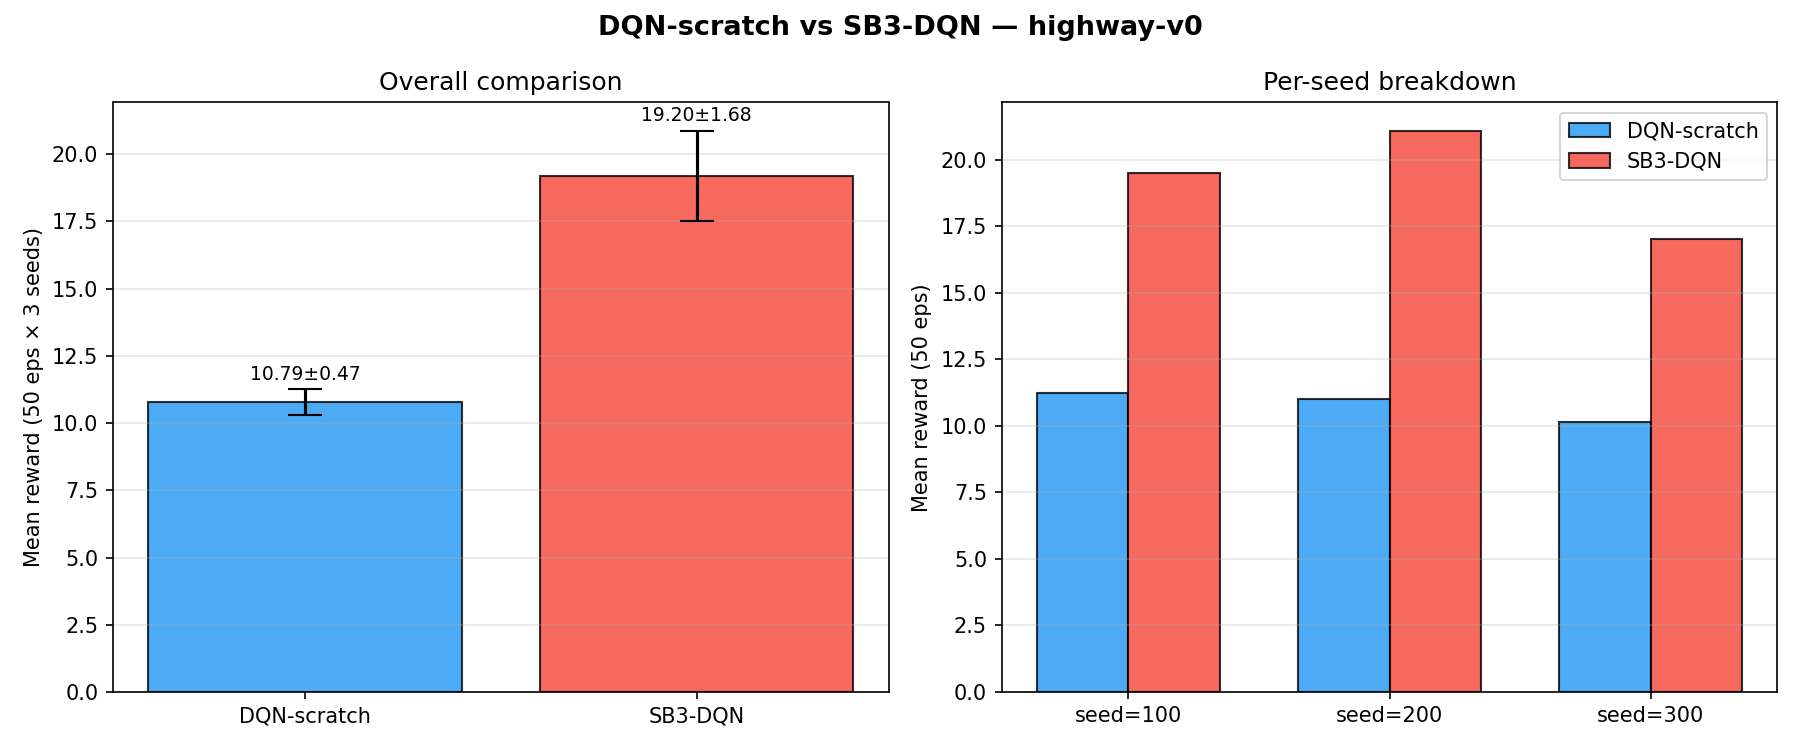
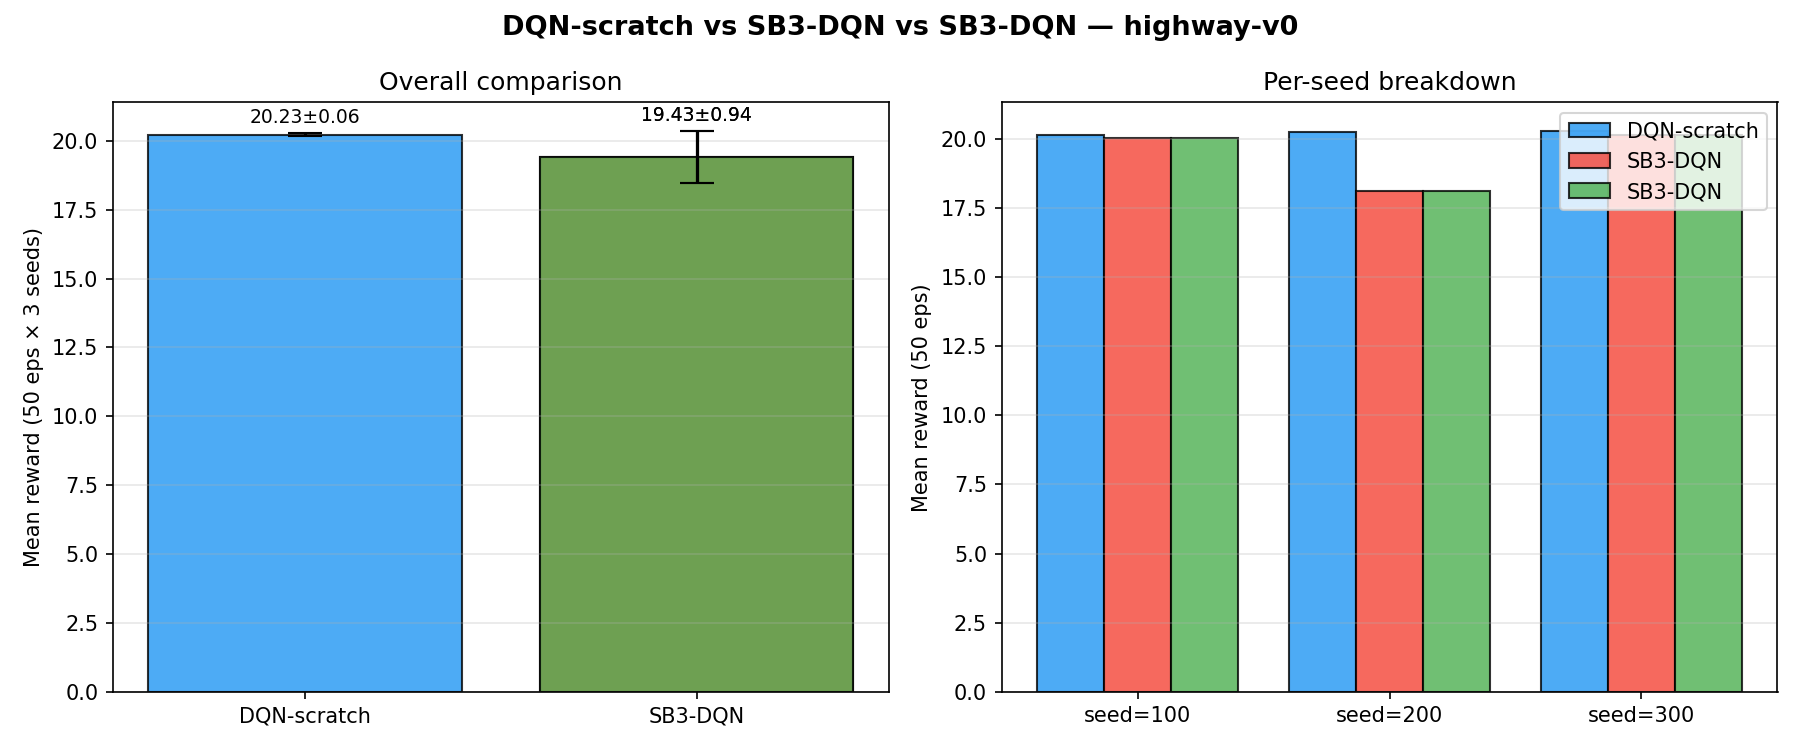
50000 steps PPO

diff --git a/plot_results.py b/plot_results.py
@@ -9,6 +9,7 @@ Usage:
     python plot_results.py
     python plot_results.py --dqn-csv results/dqn_scratch/metrics.csv \
                            --sb3-csv results/sb3_dqn/metrics.csv \
+                           --ppo-csv results/sb3_ppo/metrics.csv \
                            --comparison-json results/comparison_multiseed.json
 """
 
@@ -28,11 +29,13 @@ def smooth(values, window: int = 20):
     return np.convolve(values, kernel, mode="valid")
 
 
+COLORS = ["#2196F3", "#F44336", "#4CAF50"]
+
+
 def plot_training_curves(paths: list, output: Path) -> None:
     fig, ax = plt.subplots(figsize=(9, 5))
 
-    colors = ["#2196F3", "#F44336"]
-    for (csv_path, label), color in zip(paths, colors):
+    for (csv_path, label), color in zip(paths, COLORS):
         p = Path(csv_path)
         if not p.exists():
             print(f"  [skip] {csv_path} not found")
@@ -82,8 +85,9 @@ def plot_comparison_bar(comparison_json: Path, output: Path) -> None:
 
     fig, axes = plt.subplots(1, 2, figsize=(12, 5))
 
+    colors = COLORS[: len(models)]
+
     # --- Bar chart overall ---
-    colors = ["#2196F3", "#F44336"]
     bars = axes[0].bar(models, means, yerr=stds, capsize=8, color=colors, alpha=0.8, edgecolor="black")
     axes[0].set_ylabel("Mean reward (50 eps × 3 seeds)")
     axes[0].set_title("Overall comparison")
@@ -98,17 +102,19 @@ def plot_comparison_bar(comparison_json: Path, output: Path) -> None:
 
     # --- Per-seed grouped bar ---
     x = np.arange(len(seeds))
-    width = 0.35
+    n_models = len(models)
+    width = 0.8 / n_models
     for i, (model, color) in enumerate(zip(models, colors)):
-        axes[1].bar(x + i * width, seed_means[model], width, label=model, color=color, alpha=0.8, edgecolor="black")
-    axes[1].set_xticks(x + width / 2)
+        offset = (i - n_models / 2 + 0.5) * width
+        axes[1].bar(x + offset, seed_means[model], width, label=model, color=color, alpha=0.8, edgecolor="black")
+    axes[1].set_xticks(x)
     axes[1].set_xticklabels([f"seed={s}" for s in seeds])
     axes[1].set_ylabel("Mean reward (50 eps)")
     axes[1].set_title("Per-seed breakdown")
     axes[1].legend()
     axes[1].grid(axis="y", alpha=0.3)
 
-    fig.suptitle("DQN-scratch vs SB3-DQN — highway-v0", fontsize=13, fontweight="bold")
+    fig.suptitle(" vs ".join(models) + " — highway-v0", fontsize=13, fontweight="bold")
     fig.tight_layout()
     output.parent.mkdir(parents=True, exist_ok=True)
     fig.savefig(output, dpi=150)
@@ -120,6 +126,7 @@ def parse_args() -> argparse.Namespace:
     parser = argparse.ArgumentParser()
     parser.add_argument("--dqn-csv", type=str, default="results/dqn_scratch/metrics.csv")
     parser.add_argument("--sb3-csv", type=str, default="results/sb3_dqn/metrics.csv")
+    parser.add_argument("--ppo-csv", type=str, default="", help="CSV de training SB3 PPO (optionnel)")
     parser.add_argument("--comparison-json", type=str, default="results/comparison_multiseed.json")
     parser.add_argument("--output-dir", type=str, default="results/figures")
     return parser.parse_args()
@@ -129,14 +136,15 @@ if __name__ == "__main__":
     args = parse_args()
     out_dir = Path(args.output_dir)
 
+    curves = [
+        (args.dqn_csv, "DQN-scratch"),
+        (args.sb3_csv, "SB3-DQN"),
+    ]
+    if args.ppo_csv:
+        curves.append((args.ppo_csv, "SB3-PPO"))
+
     print("Generating training curves...")
-    plot_training_curves(
-        [
-            (args.dqn_csv, "DQN-scratch"),
-            (args.sb3_csv, "SB3-DQN"),
-        ],
-        out_dir / "training_curves.png",
-    )
+    plot_training_curves(curves, out_dir / "training_curves.png")
 
     print("Generating comparison bar chart...")
     plot_comparison_bar(Path(args.comparison_json), out_dir / "comparison_bar.png")

diff --git a/evaluate_multiseed.py b/evaluate_multiseed.py
@@ -1,12 +1,14 @@
 """
-Evaluate both the from-scratch DQN and the SB3 DQN across multiple seeds.
+Evaluate DQN-scratch, SB3 DQN, and SB3 PPO across multiple seeds.
 
 Outputs a JSON comparison table and prints a summary to stdout.
+PPO is optional : omit --ppo-model pour comparer seulement DQN-scratch et SB3-DQN.
 
 Usage:
     python evaluate_multiseed.py \
         --dqn-checkpoint results/dqn_scratch/checkpoints/best_model.pt \
         --sb3-model results/sb3_dqn/model.zip \
+        --ppo-model results/sb3_ppo/model.zip \
         --seeds 100 200 300 \
         --episodes 50 \
         --output-json results/comparison_multiseed.json
@@ -106,13 +108,26 @@ def evaluate_dqn_scratch(checkpoint_path: str, seeds: List[int], episodes: int, 
     }
 
 
+def _load_sb3_autodetect(model_path: str):
+    """Charge un modèle SB3 en détectant automatiquement l'algo depuis le zip."""
+    import zipfile
+    from stable_baselines3 import PPO, DQN
+
+    with zipfile.ZipFile(model_path) as zf:
+        raw = zf.read("data")
+
+    if b"PPOPolicy" in raw or b"ActorCriticPolicy" in raw:
+        return PPO.load(model_path), "SB3-PPO"
+    else:
+        return DQN.load(model_path), "SB3-DQN"
+
+
 def evaluate_sb3(model_path: str, seeds: List[int], episodes: int) -> Dict:
-    from stable_baselines3 import DQN as SB3DQN
+    model, label = _load_sb3_autodetect(model_path)
 
     per_seed: List[Dict] = []
     for seed in seeds:
         env = make_env(seed)
-        model = SB3DQN.load(model_path, env=env)
 
         def step_fn(obs):
             action, _ = model.predict(obs, deterministic=True)
@@ -122,11 +137,11 @@ def evaluate_sb3(model_path: str, seeds: List[int], episodes: int) -> Dict:
         result["seed"] = seed
         per_seed.append(result)
         env.close()
-        print(f"  [SB3-DQN]     seed={seed} mean={result['mean_reward']:.3f} ± {result['std_reward']:.3f}  crash={result['crash_rate']:.2%}")
+        print(f"  [{label}]     seed={seed} mean={result['mean_reward']:.3f} ± {result['std_reward']:.3f}  crash={result['crash_rate']:.2%}")
 
     overall_means = [r["mean_reward"] for r in per_seed]
     return {
-        "model": "SB3-DQN",
+        "model": label,
         "per_seed": per_seed,
         "overall_mean": float(np.mean(overall_means)),
         "overall_std": float(np.std(overall_means)),
@@ -158,6 +173,7 @@ def parse_args() -> argparse.Namespace:
     parser = argparse.ArgumentParser()
     parser.add_argument("--dqn-checkpoint", type=str, default="results/dqn_scratch/checkpoints/best_model.pt")
     parser.add_argument("--sb3-model", type=str, default="results/sb3_dqn/model.zip")
+    parser.add_argument("--ppo-model", type=str, default="", help="Chemin vers le modèle SB3 PPO (.zip)")
     parser.add_argument("--seeds", type=int, nargs="+", default=[100, 200, 300])
     parser.add_argument("--episodes", type=int, default=50)
     parser.add_argument("--cpu", action="store_true")
@@ -175,6 +191,10 @@ if __name__ == "__main__":
 
     print(f"\nEvaluating SB3-DQN ({args.episodes} eps × {len(args.seeds)} seeds)...")
     results.append(evaluate_sb3(args.sb3_model, args.seeds, args.episodes))
+
+    if args.ppo_model:
+        print(f"\nEvaluating SB3-PPO ({args.episodes} eps × {len(args.seeds)} seeds)...")
+        results.append(evaluate_sb3(args.ppo_model, args.seeds, args.episodes))
 
     print_comparison_table(results)
 

diff --git a/render_agent.py b/render_agent.py
@@ -1,5 +1,5 @@
 """
-Visualise a trained DQN agent on highway-v0.
+Visualise a trained agent (DQN-scratch, SB3 DQN, ou SB3 PPO) on highway-v0.
 
 Modes
 -----
@@ -9,16 +9,19 @@ Modes
 
 Examples
 --------
-  # Watch 3 episodes live:
+  # DQN scratch en direct :
   python render_agent.py --checkpoint results/dqn_scratch/checkpoints/best_model.pt
 
-  # Save 5 episodes as a video:
-  python render_agent.py --checkpoint results/dqn_scratch/checkpoints/best_model.pt \
-                          --mode video --episodes 5 --output results/videos/dqn_demo.mp4
+  # SB3 DQN en vidéo :
+  python render_agent.py --sb3 --checkpoint results/sb3_dqn/model.zip \
+                          --mode video --episodes 5 --output results/videos/sb3_dqn.mp4
 
-  # SB3 model:
-  python render_agent.py --sb3 --checkpoint results/sb3_dqn/best_model.zip \
-                          --mode video --output results/videos/sb3_demo.mp4
+  # SB3 PPO en direct (l'algo est auto-détecté) :
+  python render_agent.py --sb3 --checkpoint results/sb3_ppo/model.zip
+
+  # SB3 PPO en GIF :
+  python render_agent.py --sb3 --checkpoint results/sb3_ppo/model.zip \
+                          --mode gif --output results/videos/ppo_demo.gif
 """
 
 import argparse
@@ -62,9 +65,19 @@ def load_dqn(checkpoint_path: str, state_dim: int, action_dim: int):
 
 
 def load_sb3(checkpoint_path: str):
-    """Load a Stable-Baselines3 DQN model."""
-    from stable_baselines3 import DQN
-    return DQN.load(checkpoint_path)
+    """Load a Stable-Baselines3 model (DQN ou PPO, auto-détecté)."""
+    import zipfile
+    from stable_baselines3 import PPO, DQN
+
+    with zipfile.ZipFile(checkpoint_path) as zf:
+        raw = zf.read("data")
+
+    if b"PPOPolicy" in raw or b"ActorCriticPolicy" in raw:
+        print("  → algo détecté : PPO")
+        return PPO.load(checkpoint_path)
+    else:
+        print("  → algo détecté : DQN")
+        return DQN.load(checkpoint_path)
 
 
 # ──────────────────────────────────────────────────────────────────────────────
@@ -188,6 +201,8 @@ def parse_args() -> argparse.Namespace:
     parser.add_argument("--episodes", type=int, default=3,
                         help="Number of episodes to render.")
     parser.add_argument("--seed", type=int, default=0)
+    parser.add_argument("--random-seed", action="store_true",
+                        help="Tire un seed aléatoire à chaque lancement (ignore --seed).")
     parser.add_argument("--mode", type=str, default="human",
                         choices=["human", "video", "gif"],
                         help="Rendering mode: live window, MP4 video, or animated GIF.")
@@ -203,6 +218,11 @@ def parse_args() -> argparse.Namespace:
 
 def main():
     args = parse_args()
+
+    if args.random_seed:
+        import random
+        args.seed = random.randint(0, 100_000)
+        print(f"Seed aléatoire : {args.seed}")
 
     # ── Resolve output path ──────────────────────────────────────────────────
     if args.mode in ("video", "gif") and not args.output:

diff --git a/crash_stress_test.py b/crash_stress_test.py
@@ -6,13 +6,17 @@ Usage:
     # DQN scratch
     python crash_stress_test.py --checkpoint results/dqn_scratch/checkpoints/best_model.pt
 
-    # SB3
+    # SB3 DQN
     python crash_stress_test.py --sb3-model results/sb3_dqn/model.zip
 
-    # Les deux en même temps
+    # SB3 PPO
+    python crash_stress_test.py --ppo-model results/sb3_ppo/model.zip
+
+    # Les trois en même temps
     python crash_stress_test.py \
         --checkpoint results/dqn_scratch/checkpoints/best_model.pt \
         --sb3-model results/sb3_dqn/model.zip \
+        --ppo-model results/sb3_ppo/model.zip \
         --simulations 500
 """
 
@@ -134,22 +138,18 @@ def load_dqn_scratch(checkpoint_path: str, cpu: bool):
     return step_fn
 
 
-def load_sb3_dqn(model_path: str):
-    from stable_baselines3 import DQN as SB3DQN
+def load_sb3(model_path: str):
+    """Charge un modèle SB3 en auto-détectant l'algo depuis le zip."""
+    import zipfile
+    from stable_baselines3 import PPO, DQN
 
-    model = SB3DQN.load(model_path)
+    with zipfile.ZipFile(model_path) as zf:
+        raw = zf.read("data")
 
-    def step_fn(obs):
-        action, _ = model.predict(obs, deterministic=True)
-        return int(action)
-
-    return step_fn
-
-
-def load_sb3_ppo(model_path: str):
-    from stable_baselines3 import PPO as SB3PPO
-
-    model = SB3PPO.load(model_path)
+    if b"PPOPolicy" in raw or b"ActorCriticPolicy" in raw:
+        model = PPO.load(model_path)
+    else:
+        model = DQN.load(model_path)
 
     def step_fn(obs):
         action, _ = model.predict(obs, deterministic=True)
@@ -190,7 +190,7 @@ if __name__ == "__main__":
         all_results.append(result)
 
     if args.sb3_model:
-        step_fn = load_sb3_dqn(args.sb3_model)
+        step_fn = load_sb3(args.sb3_model)
         result = run_stress_test(
             step_fn,
             n_simulations=args.simulations,
@@ -200,7 +200,7 @@ if __name__ == "__main__":
         all_results.append(result)
 
     if args.ppo_model:
-        step_fn = load_sb3_ppo(args.ppo_model)
+        step_fn = load_sb3(args.ppo_model)
         result = run_stress_test(
             step_fn,
             n_simulations=args.simulations,

diff --git a/train_sb3.py b/train_sb3.py
@@ -1,3 +1,19 @@
+"""
+Train a Stable-Baselines3 agent (DQN ou PPO) on highway-v0.
+
+Usage:
+    # SB3 DQN (défaut)
+    python train_sb3.py --algo DQN
+
+    # SB3 PPO
+    python train_sb3.py --algo PPO
+
+    # PPO avec hyperparams custom
+    python train_sb3.py --algo PPO --total-timesteps 500000 --n-steps 1024 --lr 3e-4
+
+Les modèles sont sauvegardés dans results/sb3_dqn/ ou results/sb3_ppo/ selon l'algo.
+"""
+
 import argparse
 import csv
 import json

diff --git a/shared_core_config.py b/shared_core_config.py
@@ -19,7 +19,7 @@ SHARED_CORE_CONFIG = {
     "vehicles_count": 45,
     "controlled_vehicles": 1,
     "initial_lane_id": None,
-    "duration": 400,
+    "duration": 30,
     "ego_spacing": 2,
     "vehicles_density": 1.0,
     "collision_reward": -1.5,
